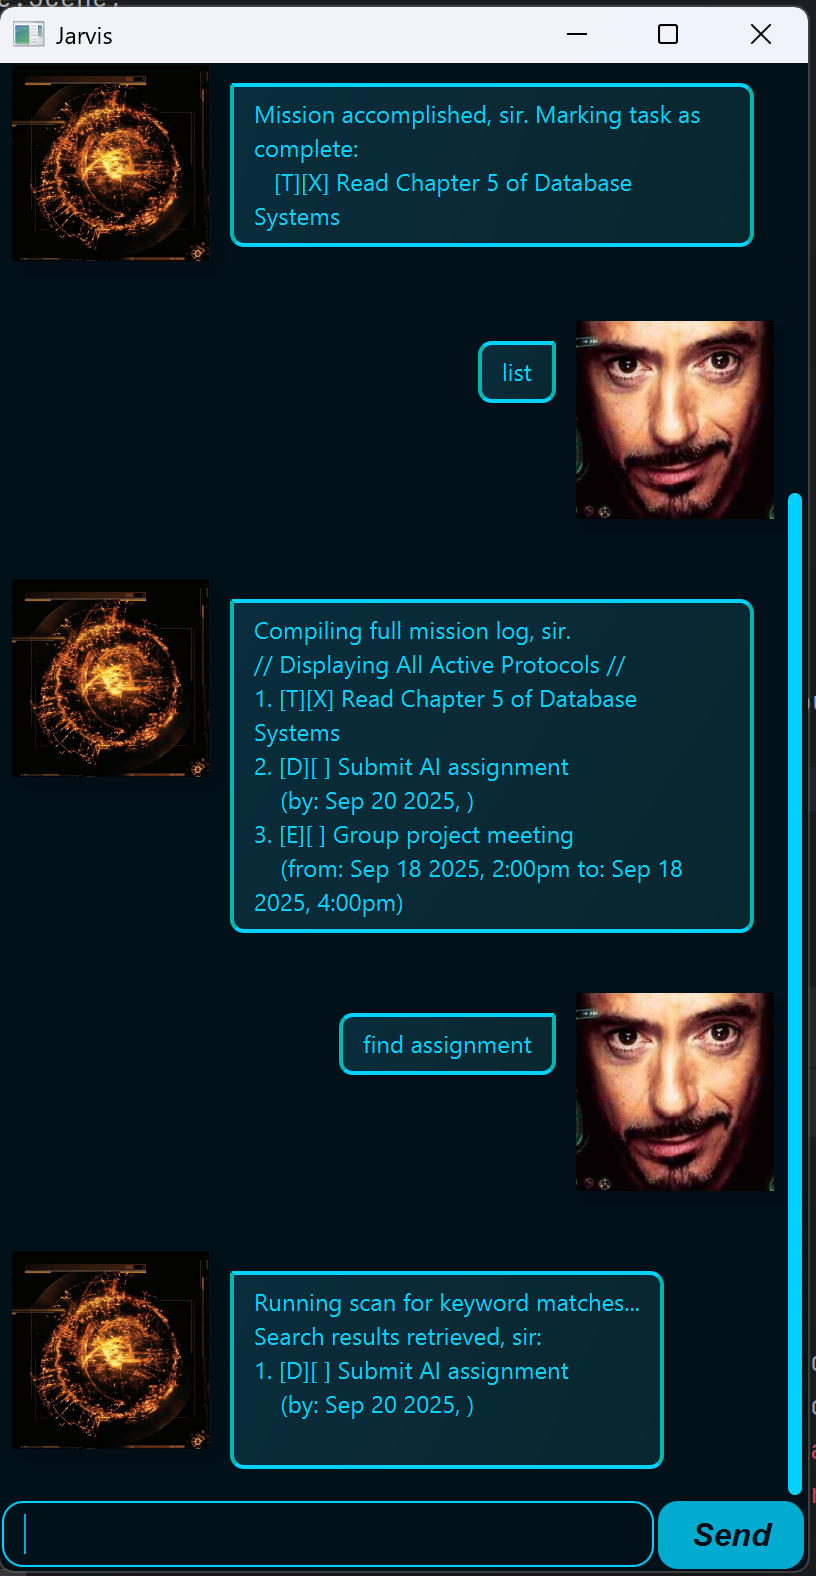
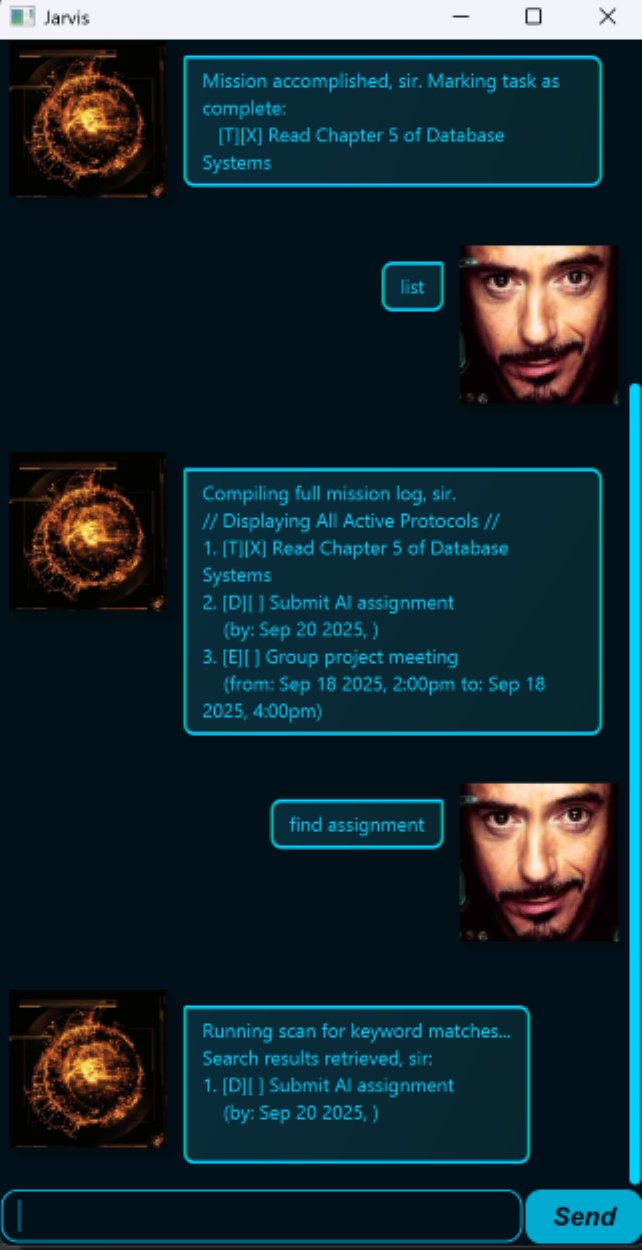
add installation setup in the user guide and add some minor fixes

Changed region(s): [[0.0, 0.0, 1.0, 0.9984], [0.0312, 0.3432, 0.2492, 0.4992]]

diff --git a/src/test/java/jarvis/task/DeadlineTest.java b/src/test/java/jarvis/task/DeadlineTest.java
@@ -7,7 +7,10 @@ import org.junit.jupiter.api.Test;
 public class DeadlineTest {
     @Test
     public void toStringTest() {
-        assertEquals("[D][ ] return book (by: 2025 Oct 12)",
-                new Deadline("return book", "2025 Oct 12").toString());
+        assertEquals("""
+                [D][ ] Submit assignment
+                    (by: Sep 30 2025 11:59pm)
+                """
+                , new Deadline("Submit assignment", "Sep 30 2025 11:59pm").toString());
     }
 }

diff --git a/src/main/java/jarvis/command/DeadlineCommand.java b/src/main/java/jarvis/command/DeadlineCommand.java
@@ -59,7 +59,7 @@ public class DeadlineCommand {
             String deadlineDate = new DateConverter(deadline[1]).convert();
             String deadlineTime = new TimeConverter(deadline[2]).convert();
 
-            Task newTask = new Deadline(parts[0], deadlineDate + ", " + deadlineTime);
+            Task newTask = new Deadline(parts[0], deadlineDate + " " + deadlineTime);
             this.list.add(newTask);
 
             return this.generateResponse(newTask);

diff --git a/src/test/java/jarvis/task/ToDoTest.java b/src/test/java/jarvis/task/ToDoTest.java
@@ -7,6 +7,9 @@ import org.junit.jupiter.api.Test;
 public class ToDoTest {
     @Test
     public void toStringTest() {
-        assertEquals("[T][ ] return book", new ToDo("return book").toString());
+        assertEquals("""
+                [T][ ] Read Chapter 5 of Database Systems
+                """
+                , new ToDo("Read Chapter 5 of Database Systems").toString());
     }
 }

diff --git a/src/main/java/jarvis/Storage.java b/src/main/java/jarvis/Storage.java
@@ -79,6 +79,7 @@ public class Storage {
         try {
             File file = this.pathDir.toFile();
             if (!file.exists()) {
+                file.getParentFile().mkdirs();
                 file.createNewFile();
                 this.resetData();
                 System.out.println("    No saved data found. Starting fresh.");

diff --git a/src/main/java/jarvis/task/Task.java b/src/main/java/jarvis/task/Task.java
@@ -93,6 +93,6 @@ public class Task implements Serializable {
     @Override
     public String toString() {
         String stat = this.isDone ? "X" : " ";
-        return "[" + stat + "] " + this.description + " " + this.tags + "\n";
+        return "[" + stat + "] " + this.description + this.tags + "\n";
     }
 }

diff --git a/src/main/java/jarvis/tag/TagList.java b/src/main/java/jarvis/tag/TagList.java
@@ -58,7 +58,7 @@ public class TagList implements Serializable {
     public String toString() {
         String tags = "";
         for (int i = 0; i < this.getSize(); ++i) {
-            tags += this.getTag(i) + " ";
+            tags += " " + this.getTag(i);
         }
         return tags;
     }

diff --git a/docs/README.md b/docs/README.md
@@ -9,7 +9,29 @@ He understands natural language commands and supports multiple task types with f
 
 Jarvis can be run in the terminal or through a GUI-style chat window, offering a more interactive assistant experience.
 
-## ✅ Adding a todo task
+## ⚙ Installation & Setup
+
+### Pre-requisites:
+- Java 17 or above installed on your machine.
+- Git installed on your machine.
+
+### Running Jarvis:
+1. Clone the repository:
+   ```
+    git clone https://github.com/Neko-Nguyen/ip
+   ```
+2. Navigate to the JAR file directory:
+   ```
+    cd build/libs
+   ```
+3. Run the Jarvis application:
+   ```
+    java -jar jarvis.jar
+   ```
+
+## ✨ Features
+
+### ✅ Adding a todo task
 
 The user enters the todo command followed by the task description and Jarvis interprets it as a request to add a new todo task.
 
@@ -21,7 +43,7 @@ Protocol initiated. Task archived:
 Sir, the list now doesContain 3 active missions.
 ```
 
-## ⏰ Adding a deadline task
+### ⏰ Adding a deadline task
 
 The user enters the deadline command followed by the task description and the due date/time, and Jarvis interprets it as a request to add a new deadline task.
 
@@ -35,7 +57,7 @@ Sir, the list now doesContain 4 active missions.
 ```
 
 
-## 📅 Adding an event task
+### 📅 Adding an event task
 
 The user enters the event command followed by the task description and the event date/time, and Jarvis interprets it as a request to add a new event task.
 
@@ -48,7 +70,7 @@ Protocol initiated. Task archived:
 Sir, the list now doesContain 5 active missions.
 ```
 
-## 📋 Listing all tasks
+### 📋 Listing all tasks
 
 The user enters the list command, and Jarvis interprets it as a request to display all current tasks.
 
@@ -65,7 +87,7 @@ Compiling full mission log, sir.
     (from: Oct 1 2025, 2:00pm, to: Oct 1 2025, 3:00pm)
 ```
 
-## ✔ Marking a task as done
+### ✔ Marking a task as done
 
 The user enters the mark command followed by the task number, and Jarvis interprets it as a request to mark the specified task as completed.
 
@@ -77,7 +99,7 @@ Mission accomplished, sir. Marking task as complete:
     (by: Sep 30 2024, 11:59pm)
 ```
 
-## 🔄 Unmarking a task
+### 🔄 Unmarking a task
 
 The user enters the unmark command followed by the task number, and Jarvis interprets it as a request to mark the specified task as not completed.
 
@@ -89,7 +111,7 @@ Status update: Task reverted to pending, sir.
     (by: Sep 30 2024, 11:59pm)
 ```
 
-## 🗑 Deleting a task
+### 🗑 Deleting a task
 
 The user enters the delete command followed by the task number, and Jarvis interprets it as a request to remove the specified task from the list.
 
@@ -103,7 +125,7 @@ Removed:
 The registry now holds 2 active missions.
 ```
 
-## 🔍 Finding tasks by keyword
+### 🔍 Finding tasks by keyword
 
 The user enters the find command followed by a keyword, and Jarvis interprets it as a request to search for tasks containing that keyword.
 
@@ -116,7 +138,7 @@ Search results retrieved, sir:
     (by: Sep 30 2024, 11:59pm)
 ```
 
-## 🏷 Tagging a task
+### 🏷 Tagging a task
 
 The user enters the tag command followed by the task number and the tag name, and Jarvis interprets it as a request to add a tag to the specified task.
 
@@ -128,7 +150,7 @@ Consider it done, sir. Tag successfully applied:
     (by: Sep 30 2024, 11:59pm)
 ```
 
-## 🚪 Exiting the application
+### 🚪 Exiting the application
 
 The user enters the bye command, and Jarvis interprets it as a request to exit the application.
 
